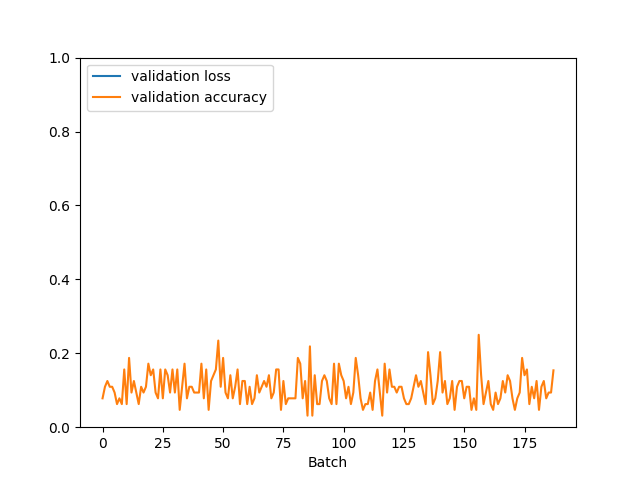
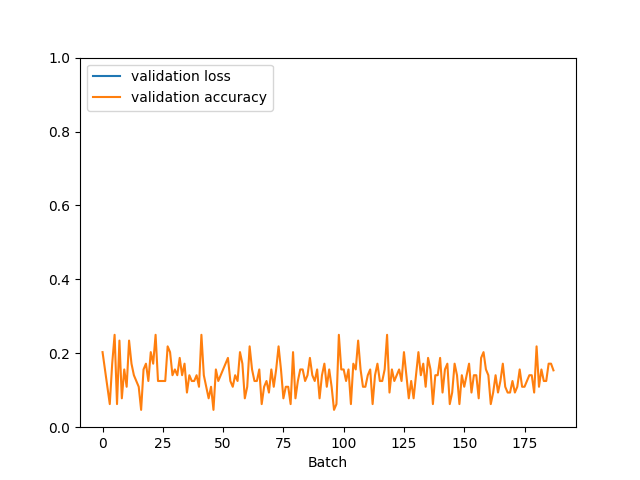
better resnet18_251

Changed region(s): [[0.1562, 0.6875, 0.875, 0.875]]

diff --git a/deep_learning/onnx_app.py b/deep_learning/onnx_app.py
@@ -32,8 +32,8 @@ if __name__ == '__main__':
   print("[+] %d classes loaded"%len(classes))
 
   # load and  preprocess image
-  img = cv2.imread(img_path)
-  img = cv2.resize(img, (IMG_SIZE, IMG_SIZE))
+  img_original = cv2.imread(img_path)
+  img = cv2.resize(img_original, (IMG_SIZE, IMG_SIZE))
   print("[+] Loaded image", img_path)
 
   img_in = np.moveaxis(img, -1, 0).astype('float32')
@@ -47,8 +47,10 @@ if __name__ == '__main__':
   cat = np.argmax(pred)
   food_name= classes[cat]
   print("Model prediction")
+  print(pred)
+  print(pred.shape)
   print(food_name)
 
-  cv2.imshow(food_name, cv2.resize(img, (DISP_RES, DISP_RES)))
+  cv2.imshow(food_name, cv2.resize(img_original, (DISP_RES, DISP_RES)))
   cv2.waitKey(0)
 

diff --git a/deep_learning/train.py b/deep_learning/train.py
@@ -18,7 +18,7 @@ def train(model, images, labels, classes):
   BS = 256
   #epochs = 250 # full dataset
   #epochs = 100 # food-101
-  epochs = 15   # food-251
+  epochs = 20   # food-251
 
   try:
     for epoch in range(epochs):
